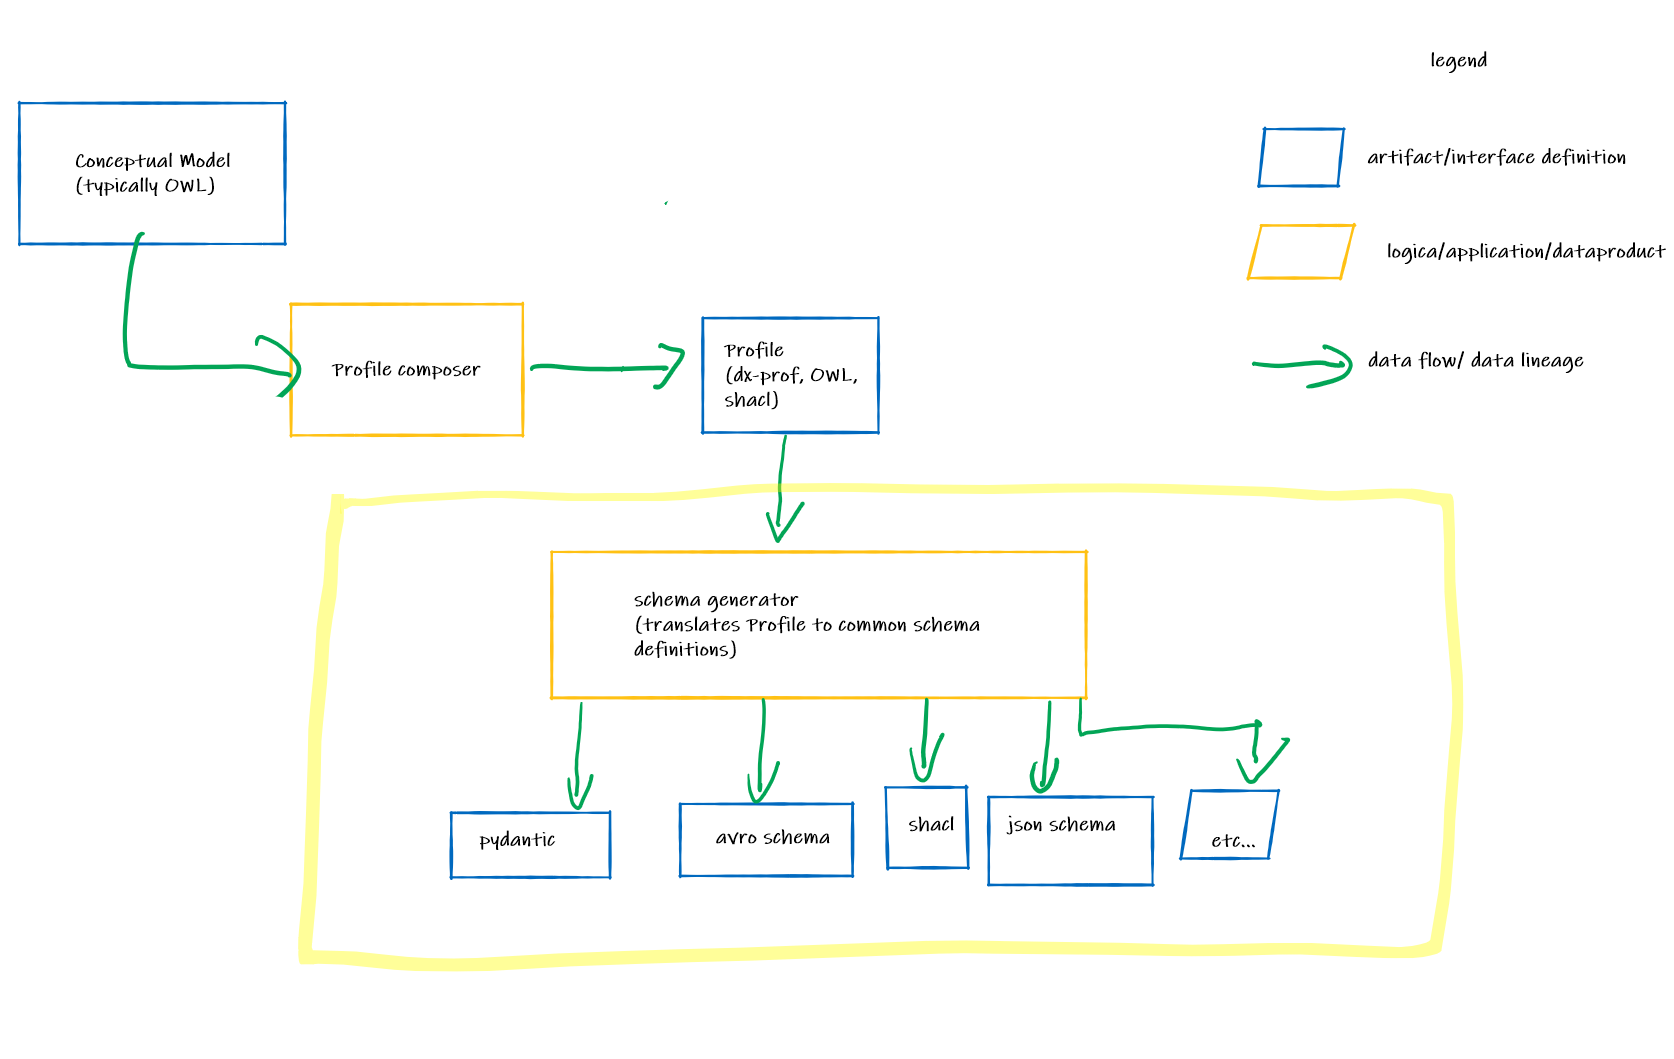
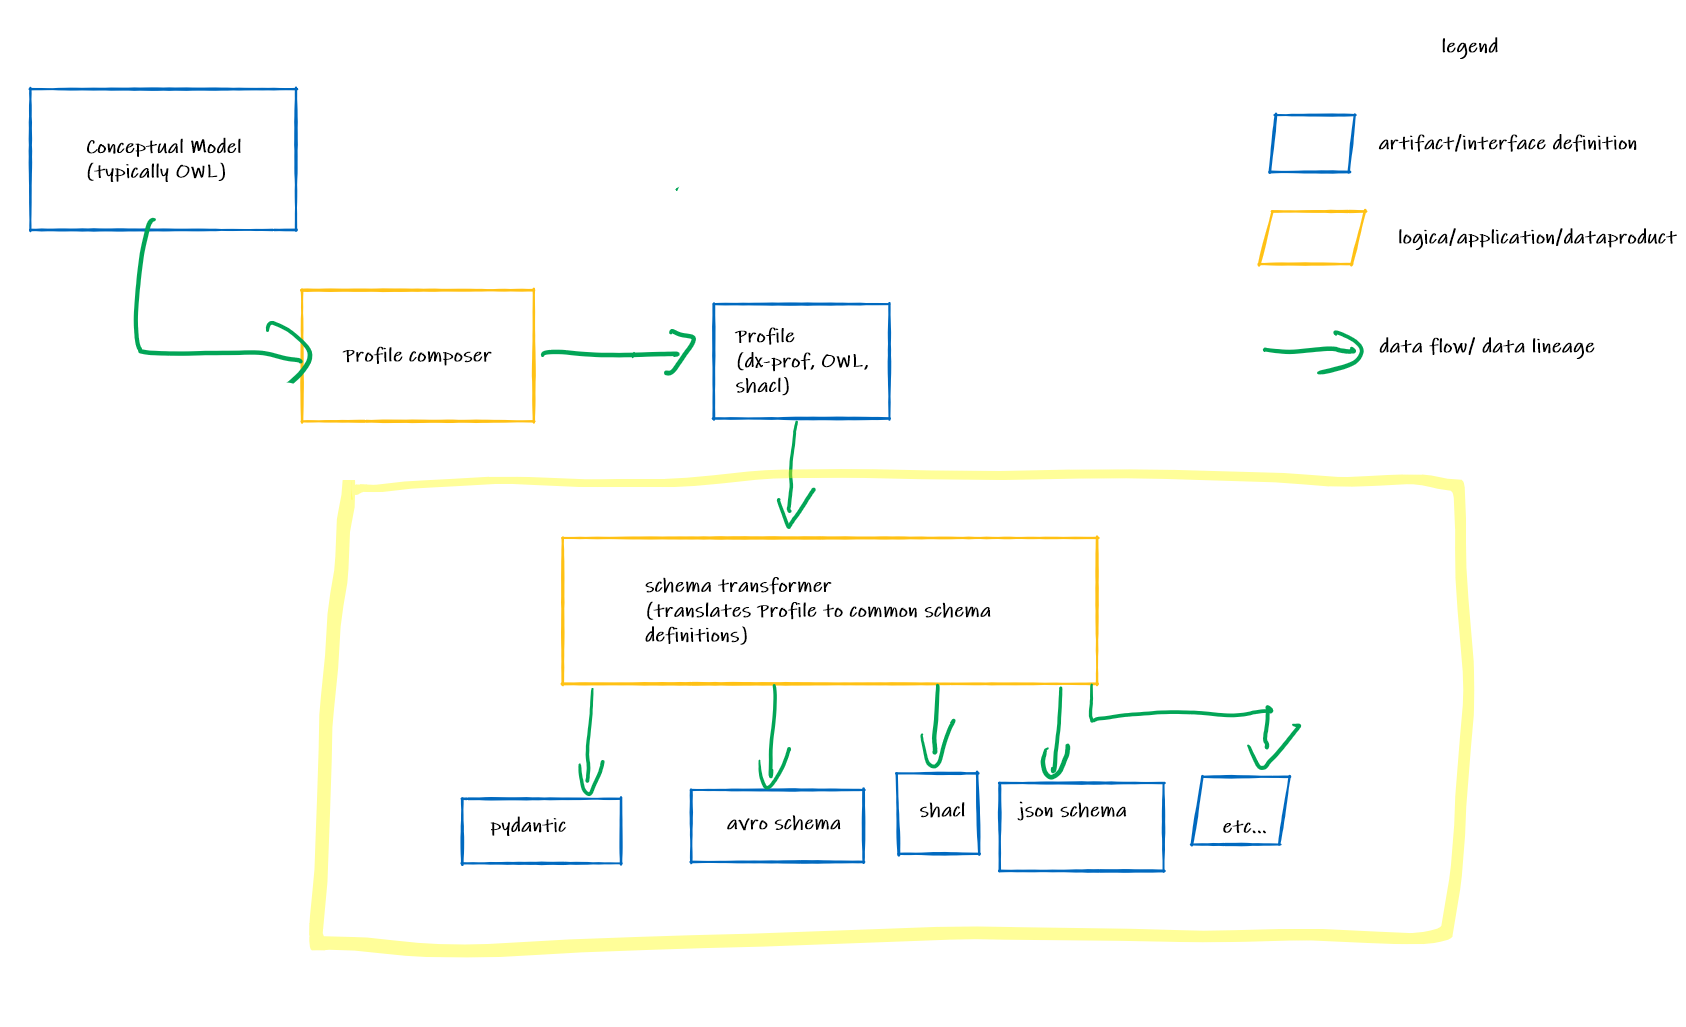
minor changes to documentation

diff --git a/README.md b/README.md
@@ -1,4 +1,4 @@
-# Schema generator
+# Schema transformer
 
 Facilitates automatically generating schema's (Avro, Json) from profiles  ([dx-prof](https://www.w3.org/TR/dx-prof/)/CIM -501 using rdfs/owl+shacl).
 
